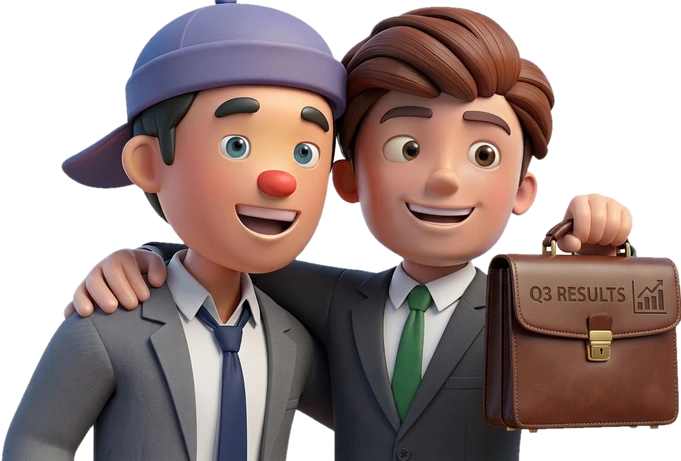
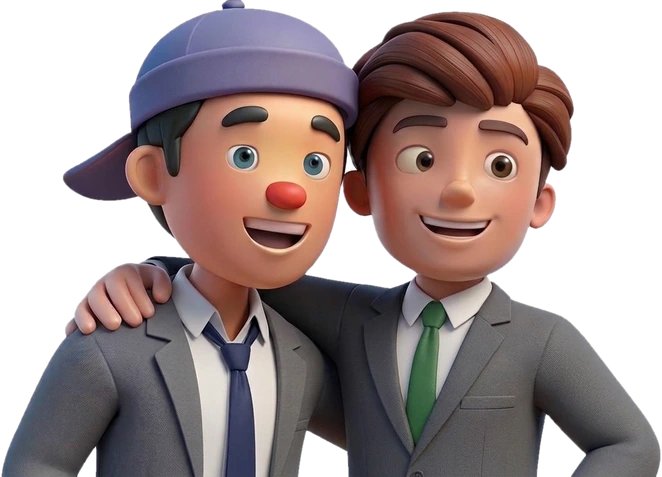
Hero art: new business meeting pair
Claude-Session: https://claude.ai/code/session_017XbPUHn37fqDv6KEidLMw8

diff --git a/public/index.html b/public/index.html
@@ -1710,14 +1710,14 @@ const SAFE=(()=>{try{if(/[?&]safe=0/.test(location.search))localStorage.setItem(
 const trusted=()=>{try{return JSON.parse(sget("trusted")||"[]").filter(id=>S.con.has(id)).slice(0,3)}catch{return[]}};
 const FRI='<svg viewBox="0 0 24 24" width="15" height="15" fill="currentColor"><circle cx="9" cy="8" r="3.6"/><path d="M2 20.500c0-4 3-6.500 7-6.500s7 2.500 7 6.500z"/><circle cx="17.500" cy="9" r="2.700" opacity=".7"/><path d="M17 14.300c3.200.3 5.200 2.300 5.200 5.700h-4c0-2.200-.4-4-1.200-5.700z" opacity=".7"/></svg>';
 const FR=id=>id&&typeof S!=="undefined"&&S.con&&S.con.has(id)&&id!==me()?`<i class="frd" title="${esc(t("frT"))}" aria-label="${esc(t("frT"))}">${FRI}</i>`:"";
-const HG={run:["#d7ecff,#eaf6ff","max-width:none!important;width:100%!important",5],scoot:["#ffe9b8,#ffd9c2","max-width:none!important;width:204px",46],walk:["#ffd9e0,#ffe9d0","max-width:none!important;width:100%!important",42],sport:["#ffd9b8,#ffecc2","max-width:none!important;width:100%!important",0],house:["#e1c9ff,#ffc9e6","max-width:none!important;width:418px",27],biz:["#cfe0ff,#e6eeff","max-width:none!important;width:100%!important",44],gaming:["#c8c3ff,#dfe8ff","margin-left:16px",89],coffee:["#f3d9b8,#f6e6cf","margin-left:16px",50],cinema:["#f5b8c6,#ffd9c9","",66],club:["#e2d1fa,#fbd2ea","max-width:none!important;width:388px",28],food:["#ffd2a8,#ffe9b8","margin-left:6px;bottom:-85px!important;max-height:340px!important;max-width:min(400px,112%)!important",63],basket:["#ffcfa6,#ffe1c8","",42],fball:["#b9e8c8,#e6f3c5","",38],pool:["#b9e3f5,#d6f1f0","",53],pub:["#f3d9a0,#fbe9bf","",62],vball:["#c9e3ff,#ffe3b8","margin-left:78px;max-height:218px",92],gym:["#cfd8e8,#e4e1f2","",92],nye:["#b9c4f5,#ffe6a8","",10],xmas:["#bfe3c7,#ffd0cf","",18],trip:["#bfe3f0,#cdeedd","max-width:310px;max-height:205px;margin-left:12px;margin-bottom:-6px",41],other:["#dfe3f0,#efe9f7","max-width:none!important;width:100%!important",42],occ:["#ffd6e8,#fff0c2","max-width:none!important;width:400px",25],bike:["#c9ecd3,#e3f4c8","max-width:none!important;width:248px",50],gallery:["#ffd0c9,#d7e9d0","",42]};
-const PXH={run:197,scoot:238,walk:234,sport:170,house:225,biz:242,gaming:240,coffee:240,cinema:240,club:226,food:240,basket:236,fball:232,pool:240,pub:240,vball:218,gym:240,nye:184,xmas:184,trip:205,other:240,occ:223,bike:248,gallery:236};
-const pxFrame=(d,st)=>{const hg=HG[d.category],h=PXH[d.category]||230;return`<div class="pfr" style="background:linear-gradient(135deg,${hg[0]})"><img src="/e/h-${d.category}.webp?v=1116e" alt="" loading="lazy" decoding="async" style="height:${h}px"></div><div class="pxt"><h3>${esc(clean(d.title))}${d.repeat?" 🔁":""}</h3><div class="pxm"><span class="tm pcd" data-t="${st}" data-x="${d.expiresAt.toMillis()}"></span><span>🕒 ${when(st)}</span>${plc(d)?`<span>📍 ${esc(plc(d))}</span>`:""}</div></div>`};
+const HG={run:["#d7ecff,#eaf6ff","max-width:none!important;width:100%!important",5],scoot:["#ffe9b8,#ffd9c2","max-width:none!important;width:204px",46],walk:["#ffd9e0,#ffe9d0","max-width:none!important;width:100%!important",42],sport:["#ffd9b8,#ffecc2","max-width:none!important;width:100%!important",0],house:["#e1c9ff,#ffc9e6","max-width:none!important;width:418px",27],biz:["#cfe0ff,#e6eeff","max-width:none!important;width:331px",40],gaming:["#c8c3ff,#dfe8ff","margin-left:16px",89],coffee:["#f3d9b8,#f6e6cf","margin-left:16px",50],cinema:["#f5b8c6,#ffd9c9","",66],club:["#e2d1fa,#fbd2ea","max-width:none!important;width:388px",28],food:["#ffd2a8,#ffe9b8","margin-left:6px;bottom:-85px!important;max-height:340px!important;max-width:min(400px,112%)!important",63],basket:["#ffcfa6,#ffe1c8","",42],fball:["#b9e8c8,#e6f3c5","",38],pool:["#b9e3f5,#d6f1f0","",53],pub:["#f3d9a0,#fbe9bf","",62],vball:["#c9e3ff,#ffe3b8","margin-left:78px;max-height:218px",92],gym:["#cfd8e8,#e4e1f2","",92],nye:["#b9c4f5,#ffe6a8","",10],xmas:["#bfe3c7,#ffd0cf","",18],trip:["#bfe3f0,#cdeedd","max-width:310px;max-height:205px;margin-left:12px;margin-bottom:-6px",41],other:["#dfe3f0,#efe9f7","max-width:none!important;width:100%!important",42],occ:["#ffd6e8,#fff0c2","max-width:none!important;width:400px",25],bike:["#c9ecd3,#e3f4c8","max-width:none!important;width:248px",50],gallery:["#ffd0c9,#d7e9d0","",42]};
+const PXH={run:197,scoot:238,walk:234,sport:170,house:225,biz:238,gaming:240,coffee:240,cinema:240,club:226,food:240,basket:236,fball:232,pool:240,pub:240,vball:218,gym:240,nye:184,xmas:184,trip:205,other:240,occ:223,bike:248,gallery:236};
+const pxFrame=(d,st)=>{const hg=HG[d.category],h=PXH[d.category]||230;return`<div class="pfr" style="background:linear-gradient(135deg,${hg[0]})"><img src="/e/h-${d.category}.webp?v=1116f" alt="" loading="lazy" decoding="async" style="height:${h}px"></div><div class="pxt"><h3>${esc(clean(d.title))}${d.repeat?" 🔁":""}</h3><div class="pxm"><span class="tm pcd" data-t="${st}" data-x="${d.expiresAt.toMillis()}"></span><span>🕒 ${when(st)}</span>${plc(d)?`<span>📍 ${esc(plc(d))}</span>`:""}</div></div>`};
 const card=(d,P,link,role,hero)=>{const by=s=>P.filter(p=>p.status===s),nm=p=>esc(p.nickname)+FR(p.id)+(p.id===d.hostId?' <span class="stt">★</span>':"")+(p.status==="late"&&p.etaMin?` (${p.etaMin}m)`:"");
   const ln=(s,c)=>by(s).length?`<div class="ln">${avc("mini",avIdx(by(s)[0]))}<span><b class="pl ${c}">${sv(RI[s])}${by(s).length} ${STL(s)}</b> ${by(s).map(nm).join(", ")}</span></div>`:"";
   const [c1,c2]=thm(d),tg=role==="host"?t("roleHost")+(d.public?" 🌍":""):role==="inv"?(d.public?"🌍 "+t("pubTag"):t("roleInv")):role?t("roleMe",STL(role)):"";
   const hg=hero&&HG[d.category];
-  if(hg)return`<div class="drop dhero" style="--c1:${c1};--c2:${c2};margin-top:${Math.max(0,hg[2]+14)}px"><div class="hf" style="background:linear-gradient(135deg,${hg[0]})"><div class="hfc"><img src="/e/h-${d.category}.webp?v=1116e" alt="" style="${hg[1]}"></div></div><div class="hb"><div class="dh"><h2>${esc(clean(d.title))}${d.repeat?`<span class="rpi" title="${t("rep_"+d.repeat)}">🔁</span>`:""}</h2>${tg?`<span class="hrt">☆ ${tg}</span>`:""}</div><div class="hm"><div>${i14(CLK)}<span>${when(d.startsAt.toMillis())}</span></div><div>${i14(PN)}<span>${esc(plc(d))}</span></div></div><hr><span class="tm" data-t="${d.startsAt.toMillis()}" data-x="${d.expiresAt.toMillis()}"></span></div></div>`;
+  if(hg)return`<div class="drop dhero" style="--c1:${c1};--c2:${c2};margin-top:${Math.max(0,hg[2]+14)}px"><div class="hf" style="background:linear-gradient(135deg,${hg[0]})"><div class="hfc"><img src="/e/h-${d.category}.webp?v=1116f" alt="" style="${hg[1]}"></div></div><div class="hb"><div class="dh"><h2>${esc(clean(d.title))}${d.repeat?`<span class="rpi" title="${t("rep_"+d.repeat)}">🔁</span>`:""}</h2>${tg?`<span class="hrt">☆ ${tg}</span>`:""}</div><div class="hm"><div>${i14(CLK)}<span>${when(d.startsAt.toMillis())}</span></div><div>${i14(PN)}<span>${esc(plc(d))}</span></div></div><hr><span class="tm" data-t="${d.startsAt.toMillis()}" data-x="${d.expiresAt.toMillis()}"></span></div></div>`;
   return`<div class="drop" style="--c1:${c1};--c2:${c2}" ${link?`onclick="go('/d/${d.id}')"`:""}><i class="gr"></i>${role?`<div class="ct"><span class="rt">${role?sv(RI[role]):""}${tg}</span>${role==="host"?`<span class="cpw"><button class="cp cpq" aria-label="QR" onclick="event.stopPropagation();qrDrop('${d.id}')">${QRI}</button><button class="cp" onclick="event.stopPropagation();shareDrop('${d.id}')">${sv(SI.share)}${t("shareShort")}</button></span>`:""}</div>`:""}<div class="dh"><span class="di">${ic(d.category,"#fff")}</span><h2>${esc(clean(d.title))}${d.repeat?`<span class="rpi" title="${t("rep_"+d.repeat)}">🔁</span>`:""}</h2></div><div class="mt">${i14(CLK)} ${when(d.startsAt.toMillis())} &nbsp;${i14(PN)} ${esc(plc(d))}</div><hr>${ln("in","cg")}${ln("late","cy")}${ln("out","cr")}${P.length?"":`<div class="mt">${t("nobody")}</div>`}<span class="tm" data-t="${d.startsAt.toMillis()}" data-x="${d.expiresAt.toMillis()}"></span></div>`};
 
 /* ---------- KARTA DROPA NA LIŚCIE (wygląd „post”) ---------- */
